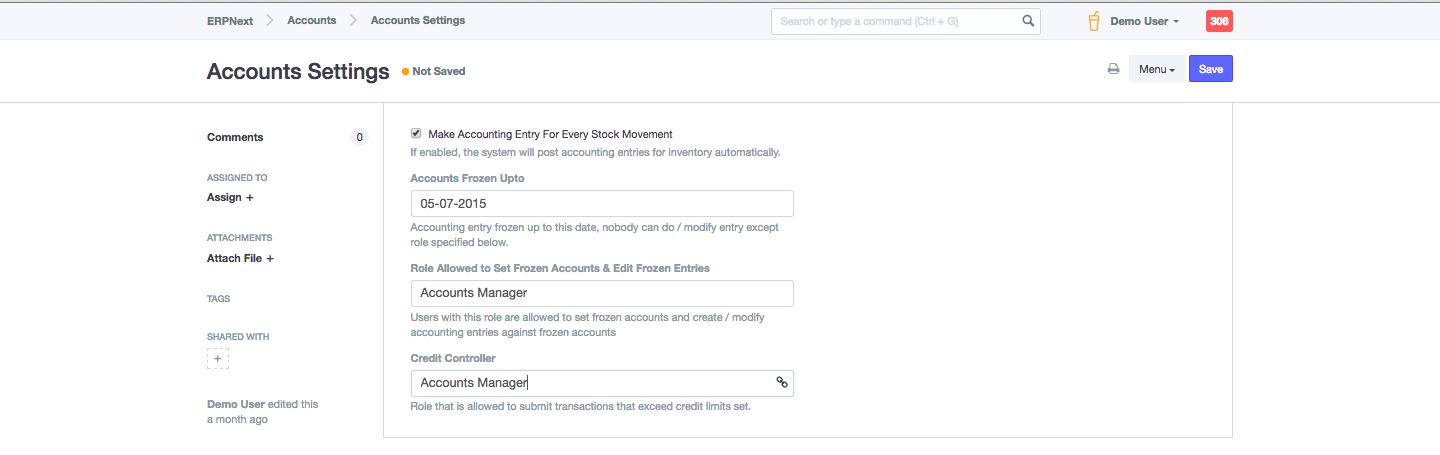
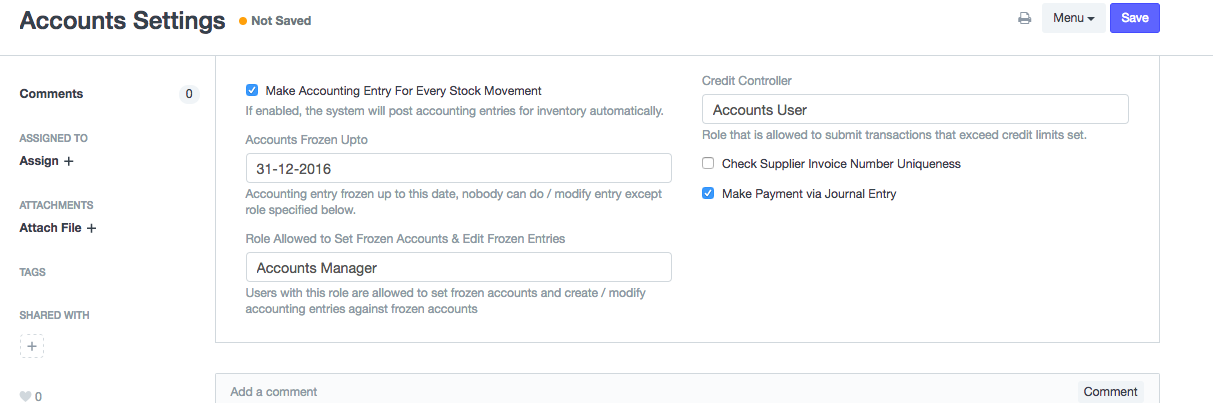
Documentation for payments

diff --git a/erpnext/public/js/controllers/transaction.js b/erpnext/public/js/controllers/transaction.js
@@ -1004,7 +1004,7 @@ erpnext.TransactionController = erpnext.taxes_and_totals.extend({
 
 	get_method_for_payment: function(){
 		method = "erpnext.accounts.doctype.payment_entry.payment_entry.get_payment_entry"
-		if(cur_frm.doc.__onload && cur_frm.doc.__onload.journal_entry){
+		if(cur_frm.doc.__onload && cur_frm.doc.__onload.make_payment_via_journal_entry){
 			if(in_list(['Sales Invoice', 'Purchase Invoice'],  cur_frm.doc.doctype)){
 				method = "erpnext.accounts.doctype.journal_entry.journal_entry.get_payment_entry_against_invoice"
 			}else {

diff --git a/erpnext/controllers/accounts_controller.py b/erpnext/controllers/accounts_controller.py
@@ -26,6 +26,9 @@ class AccountsController(TransactionBase):
 
 		return self.__company_currency
 
+	def onload(self):
+		self.get("__onload").make_payment_via_journal_entry = frappe.db.get_single_value('Accounts Settings', 'make_payment_via_journal_entry')
+
 	def validate(self):
 		if self.get("_action") and self._action != "update_after_submit":
 			self.set_missing_values(for_validate=True)

diff --git a/erpnext/accounts/doctype/sales_invoice/sales_invoice.py b/erpnext/accounts/doctype/sales_invoice/sales_invoice.py
@@ -49,9 +49,6 @@ class SalesInvoice(SellingController):
 			self.indicator_color = "green"
 			self.indicator_title = _("Paid")
 
-	def onload(self):
-		self.get("__onload").journal_entry = frappe.db.get_single_value('Accounts Settings', 'make_payment_via_journal_entry')
-
 	def validate(self):
 		super(SalesInvoice, self).validate()
 		self.validate_posting_time()

diff --git a/erpnext/selling/doctype/sales_order/sales_order.py b/erpnext/selling/doctype/sales_order/sales_order.py
@@ -24,9 +24,6 @@ class SalesOrder(SellingController):
 	def __init__(self, arg1, arg2=None):
 		super(SalesOrder, self).__init__(arg1, arg2)
 
-	def onload(self):
-		self.get("__onload").journal_entry = frappe.db.get_single_value('Accounts Settings', 'make_payment_via_journal_entry')
-
 	def validate(self):
 		super(SalesOrder, self).validate()
 

diff --git a/erpnext/accounts/doctype/purchase_invoice/purchase_invoice.py b/erpnext/accounts/doctype/purchase_invoice/purchase_invoice.py
@@ -36,9 +36,6 @@ class PurchaseInvoice(BuyingController):
 			'overflow_type': 'billing'
 		}]
 
-	def onload(self):
-		self.get("__onload").journal_entry = frappe.db.get_single_value('Accounts Settings', 'make_payment_via_journal_entry')
-
 	def validate(self):
 		if not self.is_opening:
 			self.is_opening = 'No'

diff --git a/erpnext/controllers/selling_controller.py b/erpnext/controllers/selling_controller.py
@@ -23,6 +23,7 @@ class SellingController(StockController):
 			self.grand_total)
 
 	def onload(self):
+		super(SellingController, self).onload()
 		if self.doctype in ("Sales Order", "Delivery Note", "Sales Invoice"):
 			for item in self.get("items"):
 				item.update(get_bin_details(item.item_code,

diff --git a/erpnext/buying/doctype/purchase_order/purchase_order.py b/erpnext/buying/doctype/purchase_order/purchase_order.py
@@ -33,9 +33,6 @@ class PurchaseOrder(BuyingController):
 			'overflow_type': 'order'
 		}]
 
-	def onload(self):
-		self.get("__onload").journal_entry = frappe.db.get_single_value('Accounts Settings', 'make_payment_via_journal_entry')
-
 	def validate(self):
 		super(PurchaseOrder, self).validate()
 

diff --git a/erpnext/docs/user/manual/en/accounts/payments.md b/erpnext/docs/user/manual/en/accounts/payments.md
@@ -1,0 +1,48 @@
+Payment can be made against following transactions.
+
+  1. Sales Invoice.
+  2. Purchase Invoice.
+  3. Sales Order (Advance Payment)
+  4. Purchase Order (Advance Payment)
+  
+In ERPNext, there is two options through which user can capture the payment
+
+  1. Payment Entry(Default).
+  2. Journal Entry.
+  
+## Payment Entry
+
+####Step 1: Make Payment
+
+On submitting a document against which Payment Entry can be made, you will find Make Payment button.
+
+<img class="screenshot" alt="Making Payment" src="{{docs_base_url}}/assets/img/accounts/payment-entry-1.png">
+
+####Step 2: Payment Entry
+
+<img class="screenshot" alt="Making Payment" src="{{docs_base_url}}/assets/img/accounts/payment-entry-9.png">
+
+For more details about payment entry [check here.](https://frappe.github.io/erpnext/user/manual/en/accounts/payment-entry)
+
+## Journal Entry
+
+To make paymant using journal entry, check below steps
+
+####Step 1: Activate Payment via Journal Entry
+
+Goto Accounts Settings > checked Make Payment via Journal Entry
+
+<img class="screenshot" alt="Making Payment" src="{{docs_base_url}}/assets/img/accounts/account-settings.png">
+
+####Step 2: Make Payment
+
+On submitting a document against which Journal Entry can be made, you will find Make Payment button.
+
+<img class="screenshot" alt="Making Payment" src="{{docs_base_url}}/assets/img/accounts/payment-entry-1.png">
+
+####Step 3: Journal Entry
+
+Save and submit the journal entry to record the payament against the invoice
+<img class="screenshot" alt="Making Payment" src="{{docs_base_url}}/assets/img/accounts/journal-entry.png">
+
+For more details about journal entry [check here.](https://frappe.github.io/erpnext/user/manual/en/accounts/journal-entry)
